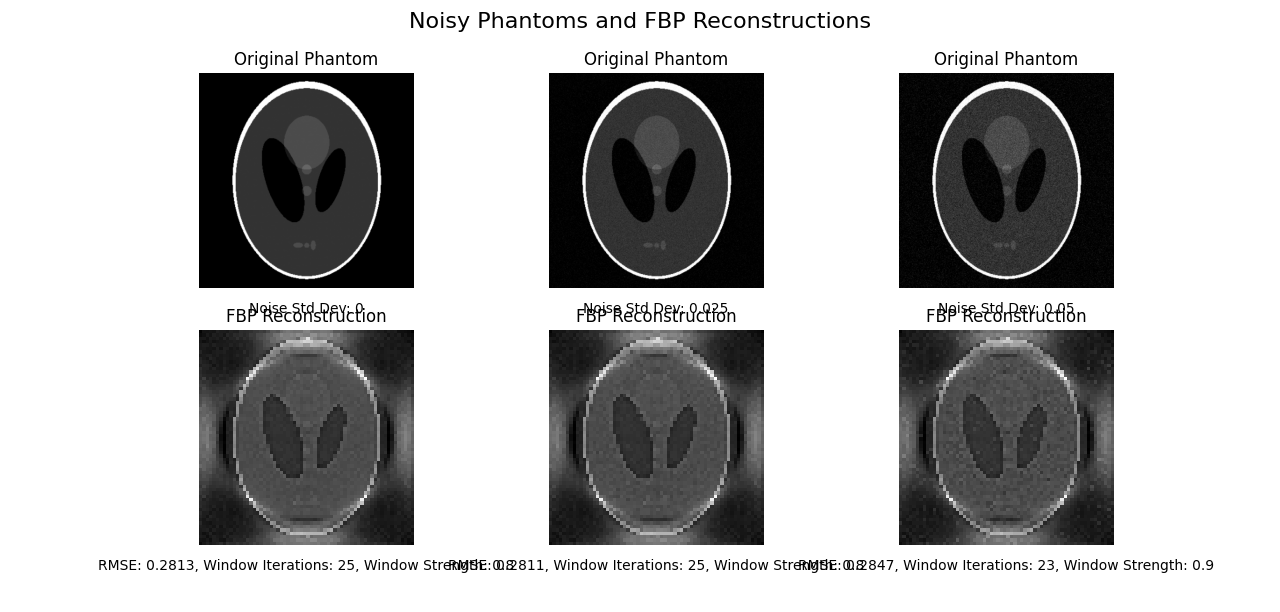
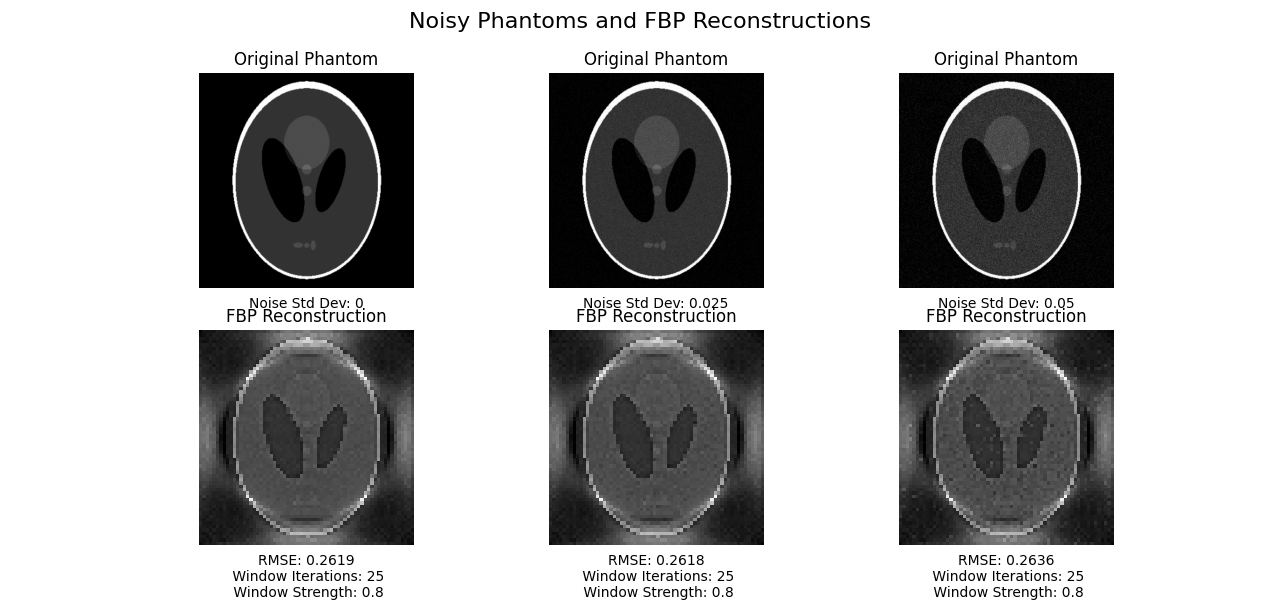
fbp noise

diff --git a/models/FBP_noise.py b/models/FBP_noise.py
@@ -58,6 +58,7 @@ ref_norm = (ref - np.min(ref)) / (np.max(ref) - np.min(ref))
 w_iterations = [0, 1, 2, 3, 4, 5, 6, 7, 8, 9, 10, 11, 12, 13, 14, 15, 16, 17, 18, 19, 20, 21, 22, 23, 24, 25]
 w_strengths = [0.1, 0.2, 0.3, 0.4, 0.5, 0.6, 0.7, 0.8, 0.9, 1.0]
 
+
 fan_list_ref = fan_setup(np.pi/4, 256)
 A_ref, b_ref, _ = ring_thing(fan_list_ref,
                             ring_subdivisions=360,
@@ -70,9 +71,9 @@ x_ref_corrected = np.flipud(x_ref.reshape(n, n)).flatten()
 x_ref_corrected = x_ref_corrected.astype(float)
 x_ref_norm = (x_ref_corrected - np.min(x_ref_corrected)) / (np.max(x_ref_corrected) - np.min(x_ref_corrected))
 
-sigmas = [0, 0.025, 0.05]
+sigmas = [0, 0.05, 0.1, 0.15]
 
-fig_imgs, axes_imgs = plt.subplots(2, len(sigmas), figsize=(3*len(sigmas), 6))
+fig_imgs, axes_imgs = plt.subplots(2, len(sigmas), figsize=(3*len(sigmas), 7))
 fig_heatmaps, axes_heatmaps = plt.subplots(1, len(sigmas), figsize=(3*len(sigmas), 4))
 
 for i, sigma in enumerate(sigmas):
@@ -102,7 +103,7 @@ for i, sigma in enumerate(sigmas):
             x_fbp_image = np.flipud(x_fbp.reshape(n, n))
             x_norm = (x_fbp_image - np.min(x_fbp_image)) / (np.max(x_fbp_image) - np.min(x_fbp_image))
             #x_norm = x_norm ** 1.5
-            rmse = compute_rmse(x_ref_norm.flatten(), x_norm.flatten())
+            rmse = compute_rmse(ref_norm.flatten(), x_norm.flatten())
             rmses[j, k] = rmse
             print(f"Window Iterations: {w_iter}, Window Strength: {w_str}, RMSE: {rmse:.4f}")
             if best_rmse is None or rmse < best_rmse:
@@ -120,20 +121,21 @@ for i, sigma in enumerate(sigmas):
 
     axes_imgs[0,i].imshow(noisy_image, cmap='gray')
     axes_imgs[0,i].set_title('Original Phantom')
-    axes_imgs[0,i].text(0.5, -0.1, f'Noise Std Dev: {sigma}', ha='center', va='center', transform=axes_imgs[0,i].transAxes)
+    axes_imgs[0,i].text(0.5, -0.06, f'Noise σ: {sigma}', ha='center', va='center', transform=axes_imgs[0,i].transAxes)
     axes_imgs[0,i].axis('off')
 
     axes_imgs[1,i].imshow(x_norm_optimal, cmap='gray')
     axes_imgs[1,i].set_title('FBP Reconstruction')
     #plt.xlabel(f'RMSE: {best_rmse:.4f}, Window Iterations: {optimal_w_iter}, Window Strength: {optimal_w_str}')
-    axes_imgs[1,i].text(0.5, -0.1, f'RMSE: {best_rmse:.4f}, Window Iterations: {optimal_w_iter}, Window Strength: {optimal_w_str}', 
+    axes_imgs[1,i].text(0.5, -0.15, f'RMSE: {best_rmse:.4f}\n Window Iterations: {optimal_w_iter}\n Window Strength: {optimal_w_str}', 
          ha='center', va='center', transform=axes_imgs[1,i].transAxes)
     axes_imgs[1,i].axis('off')
 
     ax = axes_heatmaps[i]
     im = ax.imshow(rmses, cmap='hot', 
                    extent=[min(w_strengths), max(w_strengths), max(w_iterations), min(w_iterations)],
-                   aspect='auto')
+                   aspect='auto',
+                   )
     ax.set_title(f"σ={sigma}")
     ax.set_xlabel("Window Strength")
     ax.set_ylabel("Window Iterations")
@@ -150,5 +152,8 @@ for i, sigma in enumerate(sigmas):
 plt.tight_layout()
 fig_imgs.suptitle("Noisy Phantoms and FBP Reconstructions", fontsize=16)
 fig_heatmaps.suptitle("RMSE Heatmaps", fontsize=16)
+
+plt.figure()
+plt.imshow(x_ref_norm.reshape(n, n), cmap='gray')
 plt.show()
 #print(f'Optimal parameters: Window Iterations = {optimal_w_iter}, Window Strength = {optimal_w_str}, RMSE = {best_rmse:.4f}')
